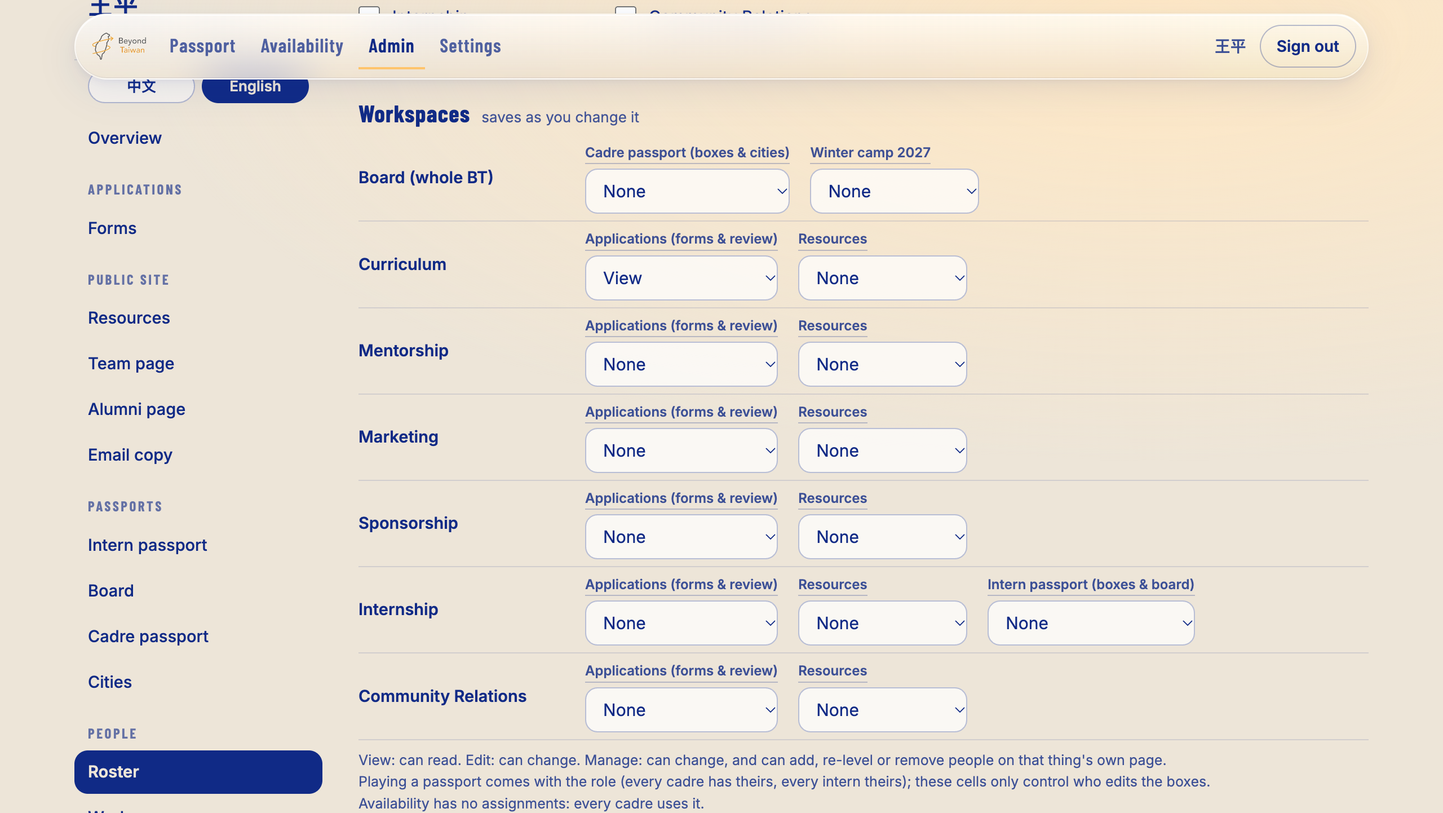
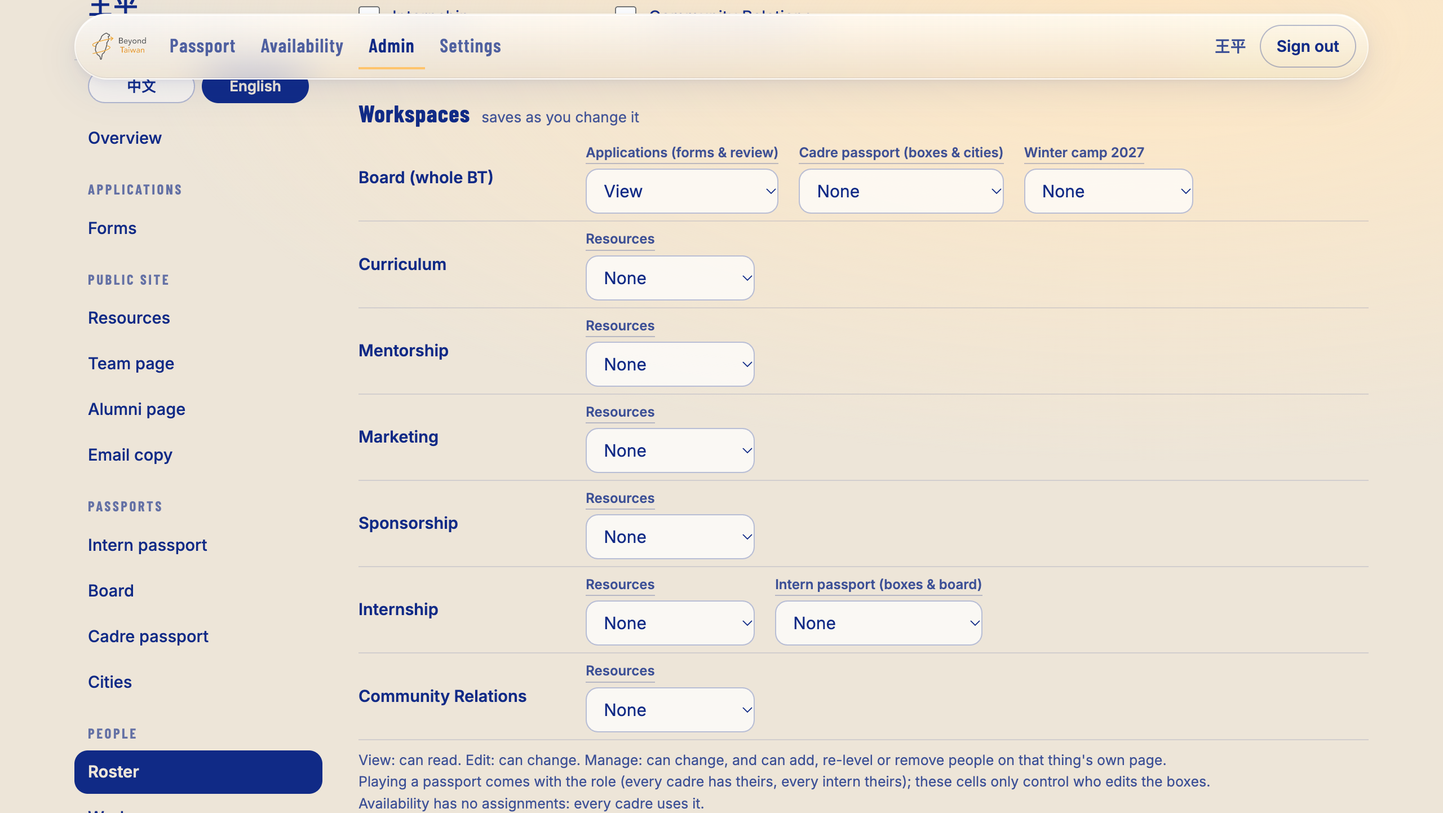
feat(admin,db): 申請變成整個 BT 一個工作區 apps（屬於 Board）：遷移檔 2026-10-30-applications-org-wide.sql 合併六個 apps:<team> 的指派（同一人取最高等級、記進 role_changes、舊工作區停用）、is_on_team／is_director_of 改看 apps；Forms 看得到的人看全部表單、team 只是標籤照標籤分段；總覽申請卡一個數；存取格與 Workspaces 的 Board 列一格「申請（表單與審核）」；people 建議鈕改成資源「管」加申請「改」；smoke 含「沒被派的幹部進不去」的破

Changed region(s): [[0.4062, 0.156, 0.8438, 0.905], [0.4062, 0.6553, 0.4375, 0.6865], [0.4062, 0.4369, 0.4375, 0.4681]]

diff --git a/admin/src/ui.js b/admin/src/ui.js
@@ -38,6 +38,8 @@ export const dtVal = v => (v ? String(v).slice(0, 16) : "");
 // 開新表單的內嵌表單（2026-10-19，批 3）。取代瀏覽器原生的 prompt()：那個對話框長得跟網站不搭，
 // 手機上尤其醜，而且會把整個分頁卡住。draft = { title, team, kind }；teams 是 Co-President 才有的選單，
 // 其他人固定自己的 team。
+// 表單上的 team 標籤可以選的六個（跟 admin/people/src/ui.js 的 TEAMS 同一份，test/teams.test.mjs 比對）。
+export const TEAM_LABELS = ["Curriculum Team", "Mentorship Team", "Marketing Team", "Sponsorship Team", "Internship Team", "Community Relations Team"];
 export function newFormHTML(draft, teams, myTeam, busy) {
   const d = draft || { title: "", team: myTeam || "", kind: "program" };
   const dis = busy ? " disabled" : "";
@@ -81,9 +83,10 @@ export function listHTML(forms, canCreate, msg, isPresident, newDraft, teams, my
       </div>
     </li>`;
   };
-  // Co-President 看得到全部，照 team 分段；其他人只看得到自己 team 的，不分段。
+  // 2026-10-30 起申請是整個 BT 一個工作區：看得到的人看得到全部表單，team 只是標籤，有兩個以上的 team 就照標籤分段。
   let rows;
-  if (isPresident && forms.length) {
+  const teamsHere = new Set(forms.map(f => f.team || ""));
+  if ((isPresident || teamsHere.size > 1) && forms.length) {
     const byTeam = new Map();
     for (const f of forms) { const k = f.team || T("forms.noTeam"); if (!byTeam.has(k)) byTeam.set(k, []); byTeam.get(k).push(f); }
     rows = [...byTeam.entries()].sort((a, b) => a[0].localeCompare(b[0]))
@@ -592,6 +595,8 @@ export function mpFind(people, q) {
 // 自訂的看它的 team 欄，沒有就看擁有人勾的第一個 team（people 給得到的時候），都沒有就放在整個 BT 那一列。
 export function wsTeamOf(w, people) {
   const id = String((w && w.id) || "");
+  // 2026-10-30 起申請是整個 BT 一個工作區 apps（在「整個 BT」那一列）；apps:<team> 是停用的舊工作區，還認得出來就好。
+  if (id === "apps") return "";
   if (id.startsWith("apps:")) return id.slice(5);
   if (id.startsWith("res:")) return id.slice(4);
   if (id === "intern-passport") return "Internship Team";
@@ -606,7 +611,7 @@ export function wsCellLabel(w) {
   const id = String((w && w.id) || "");
   if (id === "passport") return T("ws.long.passport");
   if (id === "intern-passport") return T("ws.long.intern");
-  if (id.startsWith("apps:")) return T("ws.long.apps");
+  if (id === "apps" || id.startsWith("apps:")) return T("ws.long.apps");
   if (id.startsWith("res:")) return T("ws.long.res");
   return (w && ((lang() === "zh" ? (w.title_zh || w.title_en) : (w.title_en || w.title_zh)))) || id;
 }
@@ -614,14 +619,14 @@ export function wsCellHref(w) {
   const id = String((w && w.id) || "");
   if (id === "passport") return "/admin/passports/#cadre";
   if (id === "intern-passport") return "/admin/passports/#interns";
-  if (id.startsWith("apps:")) return "/admin/#forms";
+  if (id === "apps" || id.startsWith("apps:")) return "/admin/#forms";
   if (id.startsWith("res:")) return "/admin/site/#res";
   return "/admin/people/#ws=" + encodeURIComponent(id);
 }
 // 分組：[{ team: "" 或 team 名, label, cells: [workspace…] }]，整個 BT 那一列在最上面，然後照 teams 的順序，最後是清單外的 team。
 export function wsRows(workspaces, teams, people) {
   const active = (workspaces || []).filter(w => w.active !== false);
-  const order = { "intern-passport": 3, passport: 0 };
+  const order = { apps: 0, passport: 1, "intern-passport": 3 };
   const rank = w => w.id.startsWith("apps:") ? 1 : w.id.startsWith("res:") ? 2 : (order[w.id] != null ? order[w.id] : 9);
   const groups = new Map([["", []]]);
   for (const t of teams || []) groups.set(t, []);
@@ -708,7 +713,7 @@ export function todoCards(me, forms, pendingAll, todo, canSend, busy) {
   const cards = [];
   cards.push({ n: received, label: T("card.apps"), unit: T("card.apps.unit"),
     hint: received ? `${firstForm ? esc(firstForm.title) : ""}` : T("card.apps.none"),
-    act: firstForm ? { act: "open-apps", id: firstForm.id, label: canEditAny(me, "apps:") ? T("card.apps.go") : T("card.apps.see") } : null });
+    act: firstForm ? { act: "open-apps", id: firstForm.id, label: canEditWs(me, "apps") ? T("card.apps.go") : T("card.apps.see") } : null });
   cards.push({ n: pending.length, label: T("card.mail"), unit: T("card.mail.unit"),
     hint: pending.length ? (stuck.length ? T("mail.stuck", { n: stuck.length, err: esc(stuck[0].error || T("mail.noErr")) }) : T("card.mail.hint")) : T("card.mail.done"),
     act: pending.length && canSend ? { act: "send-mail-all", label: busy ? T("mail.sending") : T("mail.sendNow"), disabled: busy } : null });
@@ -786,8 +791,8 @@ export function teamBlocksHTML(me, forms, todo) {
         <li><a href="${withLang("/admin/#forms")}">${T("team.forms")}</a>${T("punct.colon")}${fs.length ? `${T("team.formsSum", { n: fs.length, open: open.length })}${rec ? T("team.formsRec", { n: rec }) : ""}` : T("team.noneYet")}</li>
         <li><a href="${withLang("/admin/site/#res")}">${T("team.res")}</a>${T("punct.colon")}${rs.length ? T("team.resSum", { n: rs.length, pub }) : T("team.noneYet")}</li>
         <li>${T("team.director")}${dirs.length ? esc(dirs.join(T("punct.list"))) : T("team.noDirector")}</li>
-        ${pres ? `<li><a href="${withLang("/admin/people/#ws=" + encodeURIComponent("apps:" + team))}">${T("team.people")}</a></li>`
-          : wsLevel(me, "apps:" + team) === "manage" || wsLevel(me, "res:" + team) === "manage" ? `<li>${T("team.peopleHint")}</li>` : ""}
+        ${pres ? `<li><a href="${withLang("/admin/people/#ws=" + encodeURIComponent("res:" + team))}">${T("team.people")}</a></li>`
+          : wsLevel(me, "res:" + team) === "manage" ? `<li>${T("team.peopleHint")}</li>` : ""}
       </ul>
     </section>`;
   }).join("")}</div>`;
@@ -803,7 +808,7 @@ export function accessHTML(me, todo, features) {
   const go = id => {
     if (id === "intern-passport") return [{ href: "/intern-passport/", label: T("hub.goWall") }, { href: "/admin/passports/#interns", label: T("hub.goAdmin") }];
     if (id === "passport") return [{ href: "/admin/passports/#cadre", label: T("hub.goAdmin") }];
-    if (id.startsWith("apps:")) return [{ href: "/admin/#forms", label: T("hub.goForms") }];
+    if (id === "apps" || id.startsWith("apps:")) return [{ href: "/admin/#forms", label: T("hub.goForms") }];
     if (id.startsWith("res:")) return [{ href: "/admin/site/#res", label: T("hub.goRes") }];
     return [];
   };

diff --git a/admin/people/src/ui.js b/admin/people/src/ui.js
@@ -237,6 +237,8 @@ export function mpFind(people, q) {
 // 自訂的看它的 team 欄，沒有就看擁有人勾的第一個 team（people 給得到的時候），都沒有就放在整個 BT 那一列。
 export function wsTeamOf(w, people) {
   const id = String((w && w.id) || "");
+  // 2026-10-30 起申請是整個 BT 一個工作區 apps（在「整個 BT」那一列）；apps:<team> 是停用的舊工作區，還認得出來就好。
+  if (id === "apps") return "";
   if (id.startsWith("apps:")) return id.slice(5);
   if (id.startsWith("res:")) return id.slice(4);
   if (id === "intern-passport") return "Internship Team";
@@ -251,7 +253,7 @@ export function wsCellLabel(w) {
   const id = String((w && w.id) || "");
   if (id === "passport") return T("ws.long.passport");
   if (id === "intern-passport") return T("ws.long.intern");
-  if (id.startsWith("apps:")) return T("ws.long.apps");
+  if (id === "apps" || id.startsWith("apps:")) return T("ws.long.apps");
   if (id.startsWith("res:")) return T("ws.long.res");
   return (w && ((lang() === "zh" ? (w.title_zh || w.title_en) : (w.title_en || w.title_zh)))) || id;
 }
@@ -259,14 +261,14 @@ export function wsCellHref(w) {
   const id = String((w && w.id) || "");
   if (id === "passport") return "/admin/passports/#cadre";
   if (id === "intern-passport") return "/admin/passports/#interns";
-  if (id.startsWith("apps:")) return "/admin/#forms";
+  if (id === "apps" || id.startsWith("apps:")) return "/admin/#forms";
   if (id.startsWith("res:")) return "/admin/site/#res";
   return "/admin/people/#ws=" + encodeURIComponent(id);
 }
 // 分組：[{ team: "" 或 team 名, label, cells: [workspace…] }]，整個 BT 那一列在最上面，然後照 teams 的順序，最後是清單外的 team。
 export function wsRows(workspaces, teams, people) {
   const active = (workspaces || []).filter(w => w.active !== false);
-  const order = { "intern-passport": 3, passport: 0 };
+  const order = { apps: 0, passport: 1, "intern-passport": 3 };
   const rank = w => w.id.startsWith("apps:") ? 1 : w.id.startsWith("res:") ? 2 : (order[w.id] != null ? order[w.id] : 9);
   const groups = new Map([["", []]]);
   for (const t of teams || []) groups.set(t, []);
@@ -414,6 +416,7 @@ export function wsName(id, workspaces) {
   if (s === "intern-passport") return T("ws.long.intern");
   const w = (workspaces || []).find(x => x.id === id);
   if (w) return wsLabel(w);
+  if (s === "apps") return T("ws.long.apps");
   if (s.startsWith("apps:")) return T("ws.name.apps", { team: s.slice(5) });
   if (s.startsWith("res:")) return T("ws.name.res", { team: s.slice(4) });
   if (s.startsWith("custom:")) return s.slice(7);
@@ -424,8 +427,8 @@ export function wsName(id, workspaces) {
 // 還沒載到工作區清單的時候每一格都畫（exists 回 true），載到了就只畫真的存在的。
 // 還沒載到工作區清單的時候用這一份預設（跟 10-24 遷移檔建的十四個一樣），格子才畫得出來。
 export function defaultWorkspaces() {
-  return [{ id: "passport", kind: "passport" }, { id: "intern-passport", kind: "intern-passport" }]
-    .concat(TEAMS.flatMap(t => [{ id: "apps:" + t, kind: "apps", team: t }, { id: "res:" + t, kind: "res", team: t }]));
+  return [{ id: "apps", kind: "apps" }, { id: "passport", kind: "passport" }, { id: "intern-passport", kind: "intern-passport" }]
+    .concat(TEAMS.map(t => ({ id: "res:" + t, kind: "res", team: t })));
 }
 // 2026-10-24 Paul：十四列的平表看不懂（「實習護照應該在 Internship 底下」「幹部護照屬於整個 board」「表單在哪」）。
 // 改成一列一個 team，欄是那個 team 擁有的東西：Internship 多一格實習護照；最上面「整個 BT」一列放幹部護照；自訂的掛在它的 team 底下。

diff --git a/admin/src/main.js b/admin/src/main.js
@@ -34,7 +34,8 @@ const root = () => document.getElementById("bt-root");
 // 前端少畫一顆按鈕不是安全機制。
 // 2026-10-24 起看指派：對任何一個 apps: 工作區是「改」或「管」的人才有「開新表單」；
 // Co-President 與 Senior Adviser（senior）看得到所有 team 的表單與 team 選單。
-const canEdit = () => UI.canEditAny(S.me, "apps:");
+// 2026-10-30 起申請是整個 BT 一個工作區 apps：改得動的人是被派成改或管的人（senior 靠職級）。
+const canEdit = () => UI.canEditWs(S.me, "apps");
 const isPres = () => !!S.me && !!S.me.senior;
 
 function render() {
@@ -68,8 +69,8 @@ function render() {
     body = UI.membersPanelHTML(S.mp, S.msg, S.busy);
   } else if (S.view === "list") {
     body = UI.listHTML(S.forms, canEdit(), S.msg, isPres(), S.newForm,
-      isPres() ? S.teams : [], S.me.team ? String(S.me.team).split(/[,、;；]/)[0].trim() : "", S.busy,
-      UI.mpItems(S.me, "apps:", S.workspaces));
+      S.teams.length ? S.teams : UI.TEAM_LABELS, S.me.team ? String(S.me.team).split(/[,、;；]/)[0].trim() : "", S.busy,
+      UI.mpItems(S.me, "apps", S.workspaces));
   } else {
     // 首頁（批 1 先沿用目錄卡加待寄的信，批 2 換成三塊）。
     // 頂欄那幾項各是什麼（shared/nav.js 的 FEATURES 本來就有一句 desc，9-08 刪掉選單頁之後沒地方印；總覽印一次）。
@@ -107,7 +108,7 @@ async function boot(retried) {
     S.me = me;
     if (!S.me || S.me.role !== "cadre") { render(); return; }
     S.forms = forms; S.pendingAll = pendingAll;
-    if (S.me.senior) S.teams = await D.loadTeams();
+    S.teams = await D.loadTeams().catch(() => []);
     // 首頁三塊的數字。載不到不該讓整頁打不開，所以接住；每一項自己也會接住。
     S.todo = await D.loadTodo(S.me).catch(() => ({}));
     S.workspaces = await D.loadWorkspaces().catch(() => []);
@@ -403,10 +404,8 @@ document.addEventListener("click", async e => {
 
   // 開新表單：按一下在清單上面展開內嵌表單，填完按「建立」才真的開（2026-10-19 起不再用瀏覽器原生的那個名字對話框）。
   if (act === "new-form") {
-    // 預設 team：我能改的第一個 apps: 工作區；senior 沒有指派就拿 team 標籤或清單的第一個。
-    const mine = Object.entries(S.me.ws || {}).filter(([id, lv]) => id.startsWith("apps:") && ["edit", "manage"].includes(lv)).map(([id]) => id.slice(5));
-    const team = mine[0] || (S.me.team ? String(S.me.team).split(/[,、;；]/)[0].trim() : "") || (S.teams[0] || "");
-    if (!team) { S.msg = T("err.noTeamProfile"); render(); return; }
+    // 表單上的 team 只是標籤（2026-10-30 起申請不分 team）：預設拿自己勾的第一個 team，沒有就清單第一個，再沒有就空著也能開。
+    const team = (S.me.team ? String(S.me.team).split(/[,、;；]/)[0].trim() : "") || (S.teams[0] || "") || "";
     S.newForm = { title: "", team, kind: "program" }; S.msg = ""; render();
     const el = document.getElementById("nf-title"); if (el) el.focus();
     return;

diff --git a/admin/people/src/strings.js b/admin/people/src/strings.js
@@ -224,7 +224,7 @@ export const MINE = {
   "pn.create":        { zh: "加進名單", en: "Add to roster" },
   // 工作區
   "ws.title":         { zh: "工作區", en: "Workspaces" },
-  "ws.lede":          { zh: "一個工作區是一塊可以派人進去做的東西：兩本護照、每個 team 的申請與資源、之後的營隊或專案。", en: "A workspace is something people can be assigned to: the two passports, each team's applications and resources, and later camps or projects." },
+  "ws.lede":          { zh: "一個工作區是一塊可以派人進去做的東西：整個 BT 的申請、兩本護照、每個 team 的資源、之後的營隊或專案。", en: "A workspace is something people can be assigned to: BT-wide applications, the two passports, each team's resources, and later camps or projects." },
   "ws.kind.passport": { zh: "幹部護照", en: "cadre passport" },
   "ws.kind.intern":   { zh: "實習護照", en: "intern passport" },
   "ws.kind.apps":     { zh: "申請", en: "applications" },
@@ -258,8 +258,8 @@ export const MINE = {
   "grid.res":         { zh: "資源", en: "Resources" },
   "pe.wsNote":        { zh: "一格改了就存，左下角會告訴你，幾秒內按「復原」可以改回來。「管」的人可以在那個東西自己的頁面上加人。", en: "Each cell saves as you change it; the corner tells you, and Undo within a few seconds puts it back. Manage lets them add people on that thing's own page." },
   "pe.wsSenior":      { zh: "Co-President 與 Senior Adviser 本來就看得到、改得動每一個工作區；這張表對他只是紀錄。", en: "Co-Presidents and Senior Advisers already have every workspace; for them this table is only a record." },
-  "pe.grantBoth":     { zh: "同時給 {team} 的申請與資源「管」", en: "Also give Manage on {team} applications and resources" },
-  "msg.grantedBoth":  { zh: "{name} 在 {team} 的申請與資源都是「管」了。", en: "{name} now has Manage on {team} applications and resources." },
+  "pe.grantBoth":     { zh: "同時給 {team} 的資源「管」與申請「改」", en: "Also give Manage on {team} resources and Edit on Applications" },
+  "msg.grantedBoth":  { zh: "{name}：{team} 的資源「管」、申請「改」。", en: "{name}: Manage on {team} resources, Edit on Applications." },
   "msg.cell":         { zh: "{name} 在「{ws}」：{level}。", en: "{name} on \"{ws}\": {level}." },
   "msg.cellNone":     { zh: "{name} 已經從「{ws}」移出。", en: "{name} removed from \"{ws}\"." },
   "ro.search":        { zh: "找名字", en: "Find by name" },

diff --git a/admin/src/strings.js b/admin/src/strings.js
@@ -60,6 +60,15 @@ export const COMMON = {
   "toast.close":      { zh: "關掉", en: "Close" },
   "ask.yes":          { zh: "確定", en: "Yes, do it" },
   "grid.byRank":      { zh: "全部（職級）", en: "All (by rank)" },
+  // 工作區照 team 分組（2026-10-24）：長名稱講清楚那一格管的是什麼
+  "ws.long.passport": { zh: "幹部護照（格子與城市）", en: "Cadre passport (boxes & cities)" },
+  "ws.long.intern":   { zh: "實習護照（格子與棋盤）", en: "Intern passport (boxes & board)" },
+  "ws.long.apps":     { zh: "申請（表單與審核）", en: "Applications (forms & review)" },
+  "ws.long.res":      { zh: "資源", en: "Resources" },
+  "ws.board":         { zh: "整個 BT", en: "Board (whole BT)" },
+  "ws.playNote":      { zh: "玩護照是身分帶來的（每位幹部有自己的、每位實習生有自己的），這幾格只管誰能改格子。", en: "Playing a passport comes with the role (every cadre has theirs, every intern theirs); these cells only control who edits the boxes." },
+  "ws.availNote":     { zh: "時間看板沒有指派，每位幹部都用。", en: "Availability has no assignments: every cadre uses it." },
+  "ws.levelLegend":   { zh: "看：讀得到。改：改得動。管：改得動，而且可以在那個東西自己的頁面上加人、改等級、移出。", en: "View: can read. Edit: can change. Manage: can change, and can add, re-level or remove people on that thing's own page." },
   // 成員分頁（2026-10-23，第三次重整批 3）：對一個工作區是「管」的人，在那個東西自己的頁面上加人、改等級、移出。
   "level.view":       { zh: "看", en: "View" },
   "level.edit":       { zh: "改", en: "Edit" },
@@ -297,7 +306,6 @@ export const MINE = {
   "err.create":       { zh: "開不出來：", en: "Could not create: " },
   "err.reorder":      { zh: "換不了順序：", en: "Could not reorder: " },
   "err.noticeBoth":   { zh: "主旨與內容都要寫。", en: "Fill in both subject and body." },
-  "err.noTeamProfile":{ zh: "你的 profile 還沒有填 team，開不出表單。先到「設定」填一下。", en: "Your profile has no team yet, so you cannot create a form. Fill it in under Settings first." },
   "err.formName":     { zh: "表單要有名字。", en: "Give the form a name." },
   "err.pickTeam":     { zh: "要選一個 team。", en: "Choose a team." },
   "err.noQuestions":  { zh: "這份表單還沒有題目，不能開放。先加一題。", en: "This form has no questions yet, so it cannot open. Add one first." },

diff --git a/admin/passports/src/ui.js b/admin/passports/src/ui.js
@@ -227,6 +227,8 @@ export function mpFind(people, q) {
 // 自訂的看它的 team 欄，沒有就看擁有人勾的第一個 team（people 給得到的時候），都沒有就放在整個 BT 那一列。
 export function wsTeamOf(w, people) {
   const id = String((w && w.id) || "");
+  // 2026-10-30 起申請是整個 BT 一個工作區 apps（在「整個 BT」那一列）；apps:<team> 是停用的舊工作區，還認得出來就好。
+  if (id === "apps") return "";
   if (id.startsWith("apps:")) return id.slice(5);
   if (id.startsWith("res:")) return id.slice(4);
   if (id === "intern-passport") return "Internship Team";
@@ -241,7 +243,7 @@ export function wsCellLabel(w) {
   const id = String((w && w.id) || "");
   if (id === "passport") return T("ws.long.passport");
   if (id === "intern-passport") return T("ws.long.intern");
-  if (id.startsWith("apps:")) return T("ws.long.apps");
+  if (id === "apps" || id.startsWith("apps:")) return T("ws.long.apps");
   if (id.startsWith("res:")) return T("ws.long.res");
   return (w && ((lang() === "zh" ? (w.title_zh || w.title_en) : (w.title_en || w.title_zh)))) || id;
 }
@@ -249,14 +251,14 @@ export function wsCellHref(w) {
   const id = String((w && w.id) || "");
   if (id === "passport") return "/admin/passports/#cadre";
   if (id === "intern-passport") return "/admin/passports/#interns";
-  if (id.startsWith("apps:")) return "/admin/#forms";
+  if (id === "apps" || id.startsWith("apps:")) return "/admin/#forms";
   if (id.startsWith("res:")) return "/admin/site/#res";
   return "/admin/people/#ws=" + encodeURIComponent(id);
 }
 // 分組：[{ team: "" 或 team 名, label, cells: [workspace…] }]，整個 BT 那一列在最上面，然後照 teams 的順序，最後是清單外的 team。
 export function wsRows(workspaces, teams, people) {
   const active = (workspaces || []).filter(w => w.active !== false);
-  const order = { "intern-passport": 3, passport: 0 };
+  const order = { apps: 0, passport: 1, "intern-passport": 3 };
   const rank = w => w.id.startsWith("apps:") ? 1 : w.id.startsWith("res:") ? 2 : (order[w.id] != null ? order[w.id] : 9);
   const groups = new Map([["", []]]);
   for (const t of teams || []) groups.set(t, []);

diff --git a/admin/site/src/ui.js b/admin/site/src/ui.js
@@ -240,6 +240,8 @@ export function mpFind(people, q) {
 // 自訂的看它的 team 欄，沒有就看擁有人勾的第一個 team（people 給得到的時候），都沒有就放在整個 BT 那一列。
 export function wsTeamOf(w, people) {
   const id = String((w && w.id) || "");
+  // 2026-10-30 起申請是整個 BT 一個工作區 apps（在「整個 BT」那一列）；apps:<team> 是停用的舊工作區，還認得出來就好。
+  if (id === "apps") return "";
   if (id.startsWith("apps:")) return id.slice(5);
   if (id.startsWith("res:")) return id.slice(4);
   if (id === "intern-passport") return "Internship Team";
@@ -254,7 +256,7 @@ export function wsCellLabel(w) {
   const id = String((w && w.id) || "");
   if (id === "passport") return T("ws.long.passport");
   if (id === "intern-passport") return T("ws.long.intern");
-  if (id.startsWith("apps:")) return T("ws.long.apps");
+  if (id === "apps" || id.startsWith("apps:")) return T("ws.long.apps");
   if (id.startsWith("res:")) return T("ws.long.res");
   return (w && ((lang() === "zh" ? (w.title_zh || w.title_en) : (w.title_en || w.title_zh)))) || id;
 }
@@ -262,14 +264,14 @@ export function wsCellHref(w) {
   const id = String((w && w.id) || "");
   if (id === "passport") return "/admin/passports/#cadre";
   if (id === "intern-passport") return "/admin/passports/#interns";
-  if (id.startsWith("apps:")) return "/admin/#forms";
+  if (id === "apps" || id.startsWith("apps:")) return "/admin/#forms";
   if (id.startsWith("res:")) return "/admin/site/#res";
   return "/admin/people/#ws=" + encodeURIComponent(id);
 }
 // 分組：[{ team: "" 或 team 名, label, cells: [workspace…] }]，整個 BT 那一列在最上面，然後照 teams 的順序，最後是清單外的 team。
 export function wsRows(workspaces, teams, people) {
   const active = (workspaces || []).filter(w => w.active !== false);
-  const order = { "intern-passport": 3, passport: 0 };
+  const order = { apps: 0, passport: 1, "intern-passport": 3 };
   const rank = w => w.id.startsWith("apps:") ? 1 : w.id.startsWith("res:") ? 2 : (order[w.id] != null ? order[w.id] : 9);
   const groups = new Map([["", []]]);
   for (const t of teams || []) groups.set(t, []);

diff --git a/admin/people/src/main.js b/admin/people/src/main.js
@@ -275,11 +275,12 @@ document.addEventListener("click", async e => {
       // 存了一筆帶 team 的 Director 職位（Paul 2026-10-23 第 4 題）：問一句、一顆鈕同時給那個 team 的申請與資源「管」。不自動送，
       // 因為一個打錯 team 的職位會送出兩筆權限。只問最後一筆；他已經兩個都是「管」就不問。
       const dirTeam = f.board_role === "director" ? (posOps.filter(op => op.set && op.set.team).map(op => op.set.team).pop() || "") : "";
-      const hasBoth = t => ["apps:" + t, "res:" + t].every(id => (p.workspaces || []).some(w => w.id === id && w.level === "manage"));
+      // 2026-10-30 起申請是整個 BT 一個工作區：Director 配的是那個 team 的資源「管」加整個申請「改」。
+      const hasBoth = t => (p.workspaces || []).some(w => w.id === "res:" + t && w.level === "manage") && (p.workspaces || []).some(w => w.id === "apps" && ["edit", "manage"].includes(w.level));
       if (dirTeam && !hasBoth(dirTeam)) {
         const who = f.name_zh || f.name_en || pname(p), pid = p.profile_id, personId = p.person_id;
         S.undo = { label: T("pe.grantBoth", { team: dirTeam }), fn: async () => {
-          const r = await run("err.assign", async () => { await D.assign(pid, "apps:" + dirTeam, "manage"); await D.assign(pid, "res:" + dirTeam, "manage"); return true; });
+          const r = await run("err.assign", async () => { await D.assign(pid, "res:" + dirTeam, "manage"); await D.assign(pid, "apps", "edit"); return true; });
           if (r !== undefined) await reopenPerson(personId, T("msg.grantedBoth", { name: who, team: dirTeam }));
         } };
       }

diff --git a/README.md b/README.md
@@ -3411,6 +3411,18 @@ Paul 看了十四列的平表：「實習護照應該在 Internship 底下」「
 
 掃過的面：改一個人那一頁的存取格、Workspaces 頁（左邊分組、右邊標題印屬於哪一列、加一個專案或營隊）、總覽「你的存取」（照 team 分段、長名稱、兩句說明）、名單的工作區徽章（長名稱）、四份成員分頁的入口（走同一支 `wsCellLabel`）。`wsTeamOf / wsCellLabel / wsCellHref / wsRows` 四個 `ui.js` 各一份一模一樣，測試逐字比對。截圖 `docs/admin-redesign/v3/b8-01`。沒有遷移檔。
 
+### 申請變成整個 BT 一個工作區（2026-10-30）
+
+Paul 2026-10-24：BT 不再分 team 辦計畫，六個「apps:<team>」工作區合併成一個整個 BT 的「申請（表單與審核）」，掛在「整個 BT」那一列。
+Co-President 與 Senior Adviser 靠職級就有；其他人要被派進這一個工作區（看／改／管，Director 也要派）才碰得到申請表與審核。**表單上的 team 欄留著，只是標籤。**
+
+**上線前要跑** `supabase/migrations/2026-10-30-applications-org-wide.sql`，接在 `2026-10-29-invites.sql` 後面，6 項 PASS，可以重跑。它做三件事：建 `apps` 工作區；把 `apps:<team>` 上的指派搬過去（同一個人取最高的等級，每人記一筆變動紀錄），舊指派刪掉、六個舊工作區停用；`is_on_team()` 與 `is_director_of()` 改成看 `apps` 這一個工作區（參數留著不看）。
+申請那一側所有的門（forms、form_questions、applications、application_answers、mail_outbox 的 RLS，`decide_applications`、`send_notice`、`set_check_in`）都是經過這兩支判斷的，所以一條 policy 都不用重寫。`submit_application` 是學員自己的申請，沒有 team 的門；`send_pending_mail` 的門仍是 `is_cadre`（10-24 記著的已知事項）。
+⚠ 重跑 10-24 會把那兩支判斷建回舊版、也會照 team 標籤再種一次 `apps:<team>` 的指派，那時要再跑這一支。
+
+畫面掃過的面：存取格（申請一格在「整個 BT」那一列、team 列只剩資源與實習護照，九個下拉）；Workspaces 左邊分組與右邊標題；總覽「你的存取」與「你的 team」（team 的人連到資源工作區）；申請那一組的門（`canEditWs(me, "apps")`）、成員分頁入口、表單清單（看得到的人看得到全部，有兩個以上的 team 標籤就照標籤分段）、新表單的 team 下拉（所有人都選得到六個 team，只是標籤）；改一個人那一頁存了 Director 職位那顆鈕改成「那個 team 的資源管、申請改」；字典與 README。
+本機 `./scripts/db/smoke.sh` 多一段：合併取最高、舊指派搬走、Director 看得到全部 team 的表單、**沒被派的幹部讀不到未開放的表單也開不了表單**、派了就有、派不進停用的舊工作區、重跑。
+
 ### 以後加東西怎麼加（寫給明年接手的人，取代 10-19 那一版的八步）
 
 **先回答一題：這個東西是不是「要派人進去做」的？** 是（營隊、專案、新的護照）就是一個**工作區**；不是（一張只有 Co-President 看的報表）就只是一個**分頁**。
